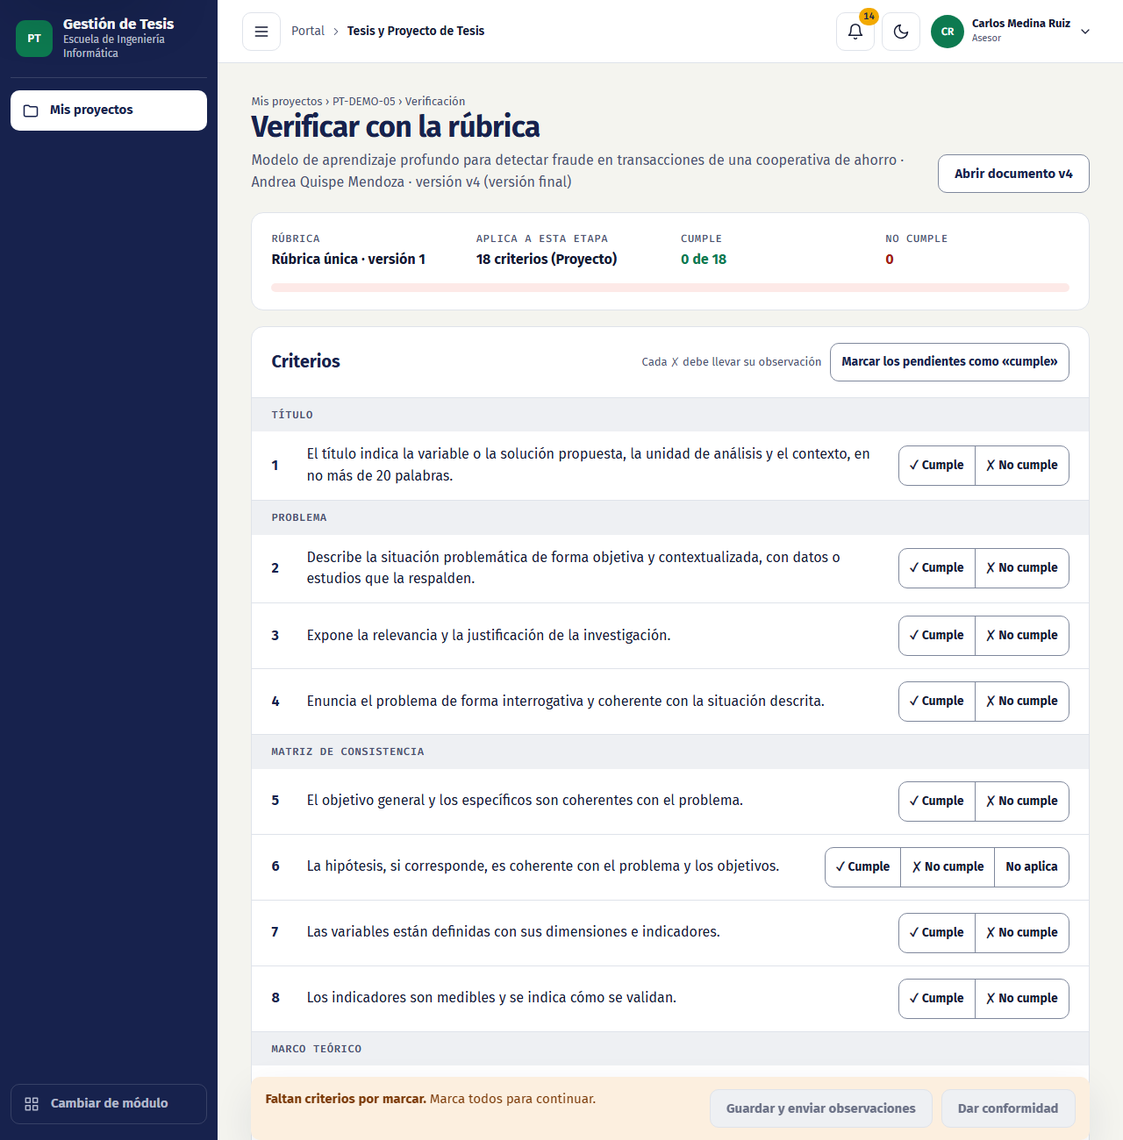
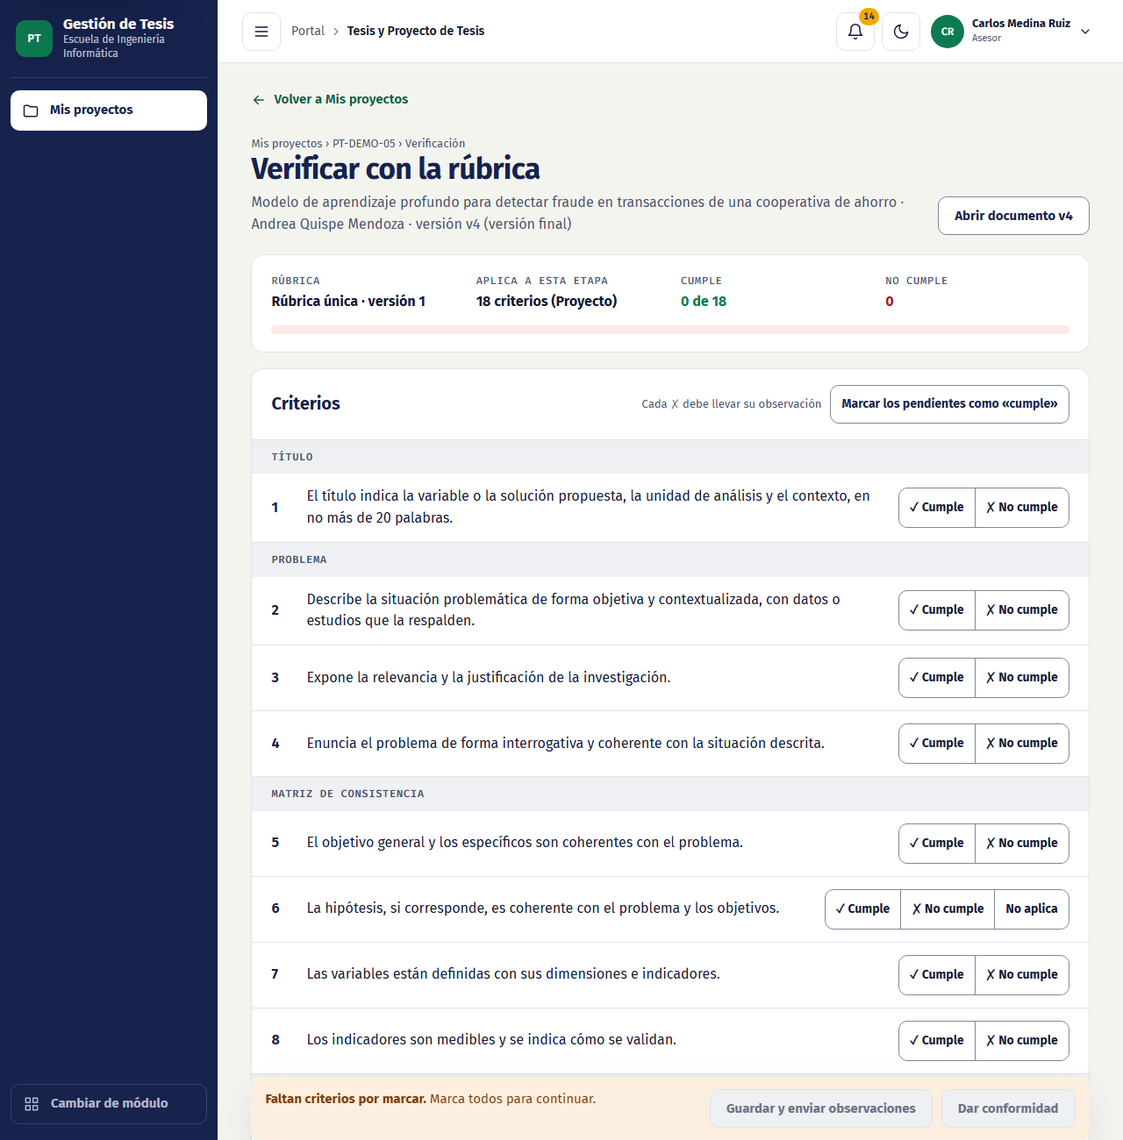
docs(tesis-proyecto-de-tesis): actualiza manuales con las correcciones de la prueba manual
- Manual de usuario: F1 segun el formato de la Escuela, respuesta con
  documento corregido, oficio al Decanato, ficha del Director, "Volver",
  mensajes nuevos y glosario.
- Manual de flujos: F-01, F-03 y F-04 actualizados y casos nuevos F-16 a
  F-20 (F1, oficio, Volver, mensajes y recorrido completo con clics reales).
- Manual de arquitectura: rutas nuevas, FormRequest, decisiones del 19/11.
- Capturas regeneradas.

diff --git a/app/Modules/TesisProyectoTesis/Docs/MANUAL_USUARIO.md b/app/Modules/TesisProyectoTesis/Docs/MANUAL_USUARIO.md
@@ -32,6 +32,9 @@ Esta guía explica cómo usar la sección **Gestión de Tesis** del portal de la
    - el botón de **tema** (luna o sol), que cambia entre tema claro y oscuro. La elección se guarda en tu navegador y vale para todos los módulos del portal;
    - tu **menú de usuario** (nombre y rol): **Mi perfil**, **Cambiar rol** (solo si tienes más de un rol en el módulo) y **Cerrar sesión**.
 
+5. En cada pantalla de detalle o formulario, el enlace **← Volver a …** de arriba te lleva a la lista de donde vienes (por ejemplo, «Volver a Mis proyectos»). Al guardar, el sistema te devuelve a esa lista con un mensaje verde que confirma lo que hiciste.
+6. Si falta un dato o hay un error, verás un recuadro rojo **«Revisa los datos del formulario»** con mensajes en español que dicen qué corregir.
+
 ![Barra superior con el menú de usuario abierto](img/barra-superior.png)
 
 > Los documentos se suben siempre en **PDF de hasta 10 MB**. Solo pueden abrirlos las personas que participan en ese proyecto.
@@ -96,18 +99,33 @@ En **Inicio** ves:
 
 ### Registrar tu proyecto (F1)
 
+El formulario sigue el formato F1 de la Escuela.
+
 1. En **Inicio**, pulsa **Registrar proyecto (F1)**.
-2. Completa los datos generales:
-   - el título, de 20 palabras como máximo (un contador te avisa);
-   - el resumen y la línea de investigación;
-   - los datos de la investigación.
+2. **Datos generales**:
+   - el título, de 20 palabras como máximo (un contador te avisa), y el resumen;
+   - **Enfoque**: Cuantitativo, Cualitativo o Mixto;
+   - **Tipo por el fin que persigue**: Básica o Aplicada;
+   - **Diseño de contrastación**: Experimental, Cuasi-experimental, Pre-experimental, No experimental – descriptivo, No experimental – correlacional u **Otro** (si eliges «Otro», describe el diseño);
+   - la **línea de investigación**;
+   - **Lugar de ejecución**: la ciudad o entidad donde aplicas la investigación (por ejemplo, Trujillo, La Libertad);
+   - **Institución**: viene con «Universidad Nacional de Trujillo»; cámbiala si corresponde;
+   - **Duración (meses)**: no se escribe, **se calcula sola** desde el cronograma (del primer inicio al último término);
+   - **Financiamiento**: Autofinanciado, Institucional o Externo. Debajo se explica cada opción.
 3. Si trabajas con un compañero, escribe su **código universitario** en «Coautor» y pulsa **Buscar**. Un proyecto puede tener como máximo 2 estudiantes.
    - Si está disponible, aparece un recuadro verde con su nombre y el texto «Se agregará como integrante 2 al registrar el proyecto». **No hay que pulsar otro botón**: quedará incluido cuando pulses **Registrar proyecto** al final.
    - Si te equivocaste de compañero, pulsa **Quitar** en ese recuadro y el campo queda vacío.
-4. Llena el cronograma y, si corresponde, los recursos, colaboradores y presupuesto. Usa los botones **+ Agregar** para sumar filas.
-5. Adjunta el documento F1 en PDF y pulsa **Registrar proyecto**.
+4. **Cronograma de actividades**: anota las actividades de tu investigación (por ejemplo, revisión bibliográfica, diseño, desarrollo, análisis de datos, evaluación y redacción del informe), **no** las etapas del trámite. Para cada una indica el inicio, el término y cuántas **horas por semana** le dedicarás. Con **+ Agregar actividad** sumas filas; la duración total aparece arriba de la tabla.
+5. **Recursos y presupuesto** (una sola tabla). Por cada recurso indica:
+   - el tipo (**Bienes** o **Servicios**) y la descripción;
+   - el **código del clasificador de gastos**: escribe para buscar por código o por concepto (por ejemplo, «2.3.1.5.1 · Materiales y útiles de oficina»). Si no está en la lista, elige **Otro código** y escríbelo. Para un bien propio sin costo (como tu laptop) usa **«–»** y valor 0;
+   - la unidad de medida, la cantidad y el **valor unitario en S/**.
 
-Tu proyecto recibe un código (por ejemplo, `PT-2026-005`) y queda en estado **Registrado**. Tu coautor lo verá en su cuenta.
+   El subtotal de cada fila, el total de bienes, el total de servicios y el total general se calculan solos. El **personal** (tú, tu coautor y el asesor) se muestra automáticamente, sin costo.
+6. Si corresponde, agrega **colaboradores**.
+7. Adjunta el documento F1 en PDF y pulsa **Registrar proyecto**.
+
+Tu proyecto recibe un código (por ejemplo, `PT-2026-005`) y queda en estado **Registrado**. Tu coautor lo verá en su cuenta. En **Mi proyecto** verás estos datos con el cronograma y los totales del presupuesto.
 
 ![Registro del proyecto](img/alumno-registrar.png)
 
@@ -128,8 +146,11 @@ Cada envío crea una nueva versión (v1, v2, v3…). En «Historial de versiones
 
 1. Abre **Observaciones**. Hay tres pestañas: **Pendientes**, **Respondidas** y **Levantadas**.
 2. En cada observación pendiente, escribe en «Tu respuesta» qué corregiste.
-3. En «Corregida en», elige la versión donde está la corrección. Debe ser una versión que subiste **después** de la observada.
-4. Pulsa **Enviar respuesta**. La observación pasa a «Respondidas».
+3. Indica dónde está la corrección (opcional, pero recomendable):
+   - **Documento corregido (PDF)**: adjunta el documento corregido. Se registra como una nueva entrega (avance, versión siguiente) y la observación queda «corregida en» esa versión. No hace falta subirlo antes en Avances.
+   - **Corregida en una versión ya subida**: si respondes varias observaciones con el mismo documento, adjúntalo en la primera y en las demás elige esa versión de la lista.
+   - Si no adjuntas nada ni eliges versión, verás una advertencia: puedes enviar igual, pero el revisor no sabrá dónde ver la corrección.
+4. Pulsa **Enviar respuesta**. La observación pasa a «Respondidas» y tu revisor recibe un aviso.
 5. El asesor o el jurado revisa tu respuesta y la da por levantada. Mientras no lo haga, puedes cambiar tu respuesta con **Actualizar respuesta**.
 
 ![Observaciones del estudiante](img/alumno-observaciones.png)
@@ -173,7 +194,9 @@ En **Mis proyectos** ves los proyectos que asesoras y cifras de lo pendiente. Ca
 
 ### Dar por levantada una observación
 
-En el detalle del proyecto, sección «Observaciones del proyecto», pulsa **Dar por levantada** en las observaciones que el estudiante ya respondió. Solo puedes levantar las observaciones que tú registraste.
+En el detalle del proyecto, sección «Observaciones del proyecto», junto a la respuesta del estudiante aparece **Ver documento corregido (vN)**: ábrelo para revisar la corrección. Luego pulsa **Dar por levantada**. Si el estudiante no indicó la versión, verás «sin versión corregida indicada». Solo puedes levantar las observaciones que tú registraste.
+
+Al final del detalle del proyecto están los datos del F1: datos de la investigación, cronograma y recursos con sus totales.
 
 ### Verificar con la rúbrica
 
@@ -185,8 +208,8 @@ En el detalle del proyecto, sección «Observaciones del proyecto», pulsa **Dar
 
    **Marcar los pendientes como «cumple»** completa de una vez los criterios que aún no marcaste.
 3. La barra inferior te dice si puedes continuar:
-   - Con todos en «cumple», pulsa **Dar conformidad**.
-   - Si hay alguno en «no cumple», pulsa **Guardar y enviar observaciones**. El estudiante corrige y sube una nueva versión final.
+   - Con todos en «cumple», pulsa **Dar conformidad**. Pasas a Turnitin. Si aún tienes observaciones abiertas, el mensaje te dice cuántas debes dar por levantadas antes de registrar Turnitin.
+   - Si hay alguno en «no cumple», pulsa **Guardar y enviar observaciones**. Vuelves a **Mis proyectos**; el estudiante corrige, sube una nueva versión final y responde la observación.
 
 ![Rúbrica del asesor](img/asesor-rubrica.png)
 
@@ -224,10 +247,15 @@ Muestra:
 
 ### Solicitar el asesor al Decanato
 
+El Decanato no usa el sistema: **el sistema registra la solicitud; el envío al Decanato se hace por el canal oficial**.
+
 1. En «Requieren tu acción», pulsa **Solicitar** junto al proyecto nuevo.
 2. Revisa los datos de la solicitud (dirigida a, área, asunto, descripción).
 3. Si quieres, sugiere un docente especialista en la línea del proyecto. La sugerencia es solo referencial: decide el Decanato.
-4. Pulsa **Enviar solicitud al Decanato**. La Secretaría registrará la resolución cuando llegue.
+4. Pulsa **Registrar solicitud y generar oficio**. Se abre el **oficio** dirigido al Decano (número, asunto, proyecto, estudiantes, línea y docente sugerido).
+5. Pulsa **Imprimir oficio**, fírmalo y envíalo al Decanato por el canal oficial. La **Constancia en PDF** queda guardada en la solicitud; puedes volver a abrir el oficio desde la pantalla de la solicitud («Ver e imprimir el oficio»).
+
+La Secretaría registrará la resolución cuando llegue.
 
 ### Asignar el jurado
 
@@ -251,7 +279,7 @@ No se puede reemplazar cuando la sustentación ya está programada o concluida.
 
 ### Todos los proyectos
 
-Lista todos los proyectos con búsqueda y filtro por estado. Según el estado, cada fila ofrece **Solicitar asesor**, **Asignar jurado** o **Ver jurado**.
+Lista todos los proyectos con búsqueda y filtro por estado. Según el estado, cada fila ofrece **Solicitar asesor**, **Asignar jurado** o **Ver jurado**. Al pulsar el **título** se abre la **ficha del proyecto**: integrantes, asesor, jurado, datos del F1, cronograma, recursos con sus totales e historial.
 
 ---
 
@@ -261,7 +289,7 @@ Menú: **Resoluciones**, **Sustentaciones**, **Actas y dictámenes**.
 
 ### Registrar la resolución del asesor
 
-1. Abre **Resoluciones**. En «Solicitudes esperando resolución» elige el proyecto.
+1. Abre **Resoluciones**. En «Solicitudes esperando resolución» elige el proyecto. Con **Oficio del Director al Decanato · ver PDF** puedes revisar la solicitud que se envió.
 2. Completa:
    - el N.° de resolución;
    - la fecha de emisión, que no puede ser futura;
@@ -359,7 +387,12 @@ Los votos de cada uno se muestran recién cuando están los tres.
 | «No puedes agregarte a ti mismo como coautor.» | Deja el campo vacío si trabajas solo. |
 | Junto al nombre de tu coautor aparece un aviso en rojo | Ya tiene otro proyecto activo. Un estudiante solo puede tener uno. |
 | «En el estado actual del proyecto (…) no se reciben entregas.» | Espera a que tu asesor sea designado o a que termine la etapa en curso. |
-| «Elige una entrega de tu proyecto posterior a la observada.» | Sube primero la versión corregida y luego responde la observación. |
+| «Elige una entrega de tu proyecto posterior a la observada.» | Adjunta el documento corregido en la respuesta o elige una versión posterior a la observada. |
+| «No adjuntaste el documento corregido ni elegiste una versión…» (aviso amarillo) | Tu respuesta se envió. Si ya corregiste el documento, vuelve a responder adjuntándolo o eligiendo la versión. |
+| «Describe el diseño de contrastación cuando eliges «Otro».» | Escribe el diseño en el campo que aparece debajo. |
+| «El cronograma dura N meses; el máximo es 36…» | Revisa las fechas de inicio y término de las actividades. |
+| «Indica la dedicación de cada actividad, en horas por semana.» | Completa las horas por semana de cada actividad del cronograma. |
+| «El código del clasificador debe tener números separados por puntos…» | Elige un código de la lista, escribe uno como 2.3.1.5.1 o usa «–» para un bien propio. |
 | «Esta observación ya fue levantada por el revisor.» | No necesitas hacer nada más con ella. |
 
 ### Asesor y jurado
@@ -372,6 +405,8 @@ Los votos de cada uno se muestran recién cuando están los tres.
 | «Aún no hay una versión final o culminada para verificar.» | El estudiante debe subir su versión final. |
 | «Primero verifica la versión vigente con la rúbrica y da tu conformidad.» | Completa la rúbrica antes de registrar Turnitin. |
 | «Aún hay observaciones tuyas sin levantar.» | Levanta las observaciones que el estudiante ya respondió. |
+| «Rúbrica conforme. Antes de registrar Turnitin, da por levantadas tus N observaciones abiertas…» | En la ficha del proyecto, abre el documento corregido y pulsa **Dar por levantada**. |
+| «No se recibió qué acción elegiste…» | Vuelve a pulsar el botón de la rúbrica (por ejemplo, **Dar conformidad**). |
 | «Si registras observaciones, el resultado debe ser «Con observaciones».» | Cambia el resultado o quita las observaciones nuevas. |
 | «Solo se levantan observaciones que el estudiante ya respondió.» | Espera la respuesta del estudiante. |
 | «El resultado se registra el día de la sustentación.» | Vuelve el día programado. |
@@ -392,7 +427,7 @@ Los votos de cada uno se muestran recién cuando están los tres.
 | Mensaje | Qué hacer |
 |---|---|
 | «Ya existe una resolución con ese número.» | Revisa el número de la resolución. |
-| «La fecha no puede ser anterior a hoy.» | Elige hoy o una fecha posterior. |
+| «La fecha de la sustentación no puede ser anterior a hoy.» | Elige hoy o una fecha posterior. |
 | «El ambiente ya tiene una sustentación en ese horario.» | Cambia el aula o la hora. Revisa la agenda de la semana. |
 | Un mensaje dice que un jurado o el asesor tiene otra sustentación a esa hora | Elige otra hora. |
 | «Primero sube el documento firmado.» | Sube el escaneo firmado antes de informar al Director. |
@@ -403,7 +438,9 @@ Los votos de cada uno se muestran recién cuando están los tres.
 
 | Término | Significado |
 |---|---|
-| **F1** | Formato del proyecto de tesis que el estudiante registra en el 9.º ciclo (etapa 1). |
+| **F1** | Formato del proyecto de tesis que el estudiante registra en el 9.º ciclo (etapa 1): datos generales, cronograma de actividades y recursos y presupuesto. |
+| **Clasificador de gastos** | Código presupuestal de cada recurso (por ejemplo, 2.3.1.5.1 · Materiales y útiles de oficina). «–» indica un bien propio sin costo. |
+| **Oficio** | Documento que el Director imprime, firma y envía al Decanato para solicitar el asesor; el sistema guarda su constancia en PDF. |
 | **F2** | Documento de la tesis que se desarrolla en el 10.º ciclo (etapa 2). |
 | **Avance** | Entrega parcial del documento que el asesor revisa, normalmente cada semana. |
 | **Observación** | Indicación de algo que se debe corregir. Pasa por tres momentos: pendiente, respondida y levantada. |

diff --git a/app/Modules/TesisProyectoTesis/Docs/MANUAL_ARQUITECTURA.md b/app/Modules/TesisProyectoTesis/Docs/MANUAL_ARQUITECTURA.md
@@ -59,14 +59,14 @@ app/Modules/TesisProyectoTesis/
 ├── Database/
 │   ├── Migrations/     3 migraciones originales de gestión + 19 de ajuste (2026_11_10_0000NN)
 │   └── Seeders/        TesisDatabaseSeeder, RubricaSeeder, TipoSolicitudSeeder,
-│                       DemoTesisSeeder, EscenariosTesisSeeder
+│                       DemoTesisSeeder, EscenariosTesisSeeder, LineasInvestigacionSeeder
 ├── Docs/               estos manuales e img/ con capturas
 ├── Models/             23 modelos (ModuleModel, incluido Registro) + Concerns/UsaUuid
 ├── Policies/           ProyectoPolicy
-├── Requests/           13 FormRequest (uno por escritura)
+├── Requests/           18 FormRequest sobre TesisFormRequest (mensajes en español): 13 de escritura y 5 de filtros/consultas
 ├── Routes/             web.php, api.php
 ├── Services/           21 servicios con las reglas de negocio
-└── Support/            Estados, Parametros, Identidad (DTO), PdfSimple
+└── Support/            Estados, Parametros, Identidad (DTO), PdfSimple, DuracionCronograma
 
 resources/views/modules/tesis-proyecto-tesis/
 ├── layout.blade.php    documento propio del módulo (como layouts.calidad): menú lateral por rol, barra superior con campana, tema y menú de usuario
@@ -143,8 +143,10 @@ Prefijo `/tesis-proyecto-tesis`, nombre `tesis-proyecto-tesis.`. Todo, salvo la 
 | Método | URI | Nombre | Autorización |
 |---|---|---|---|
 | GET | `/director` | `director.panel` | Rol |
-| GET | `/director/proyectos` | `director.proyectos` | Rol (filtros validados) |
+| GET | `/director/proyectos` | `director.proyectos` | Rol (`FiltrarProyectosDirectorRequest`) |
+| GET | `/director/proyectos/{proyecto}` | `director.proyecto` | `can:gestionarComoDirector` (ficha con el detalle del F1) |
 | GET / POST | `/director/proyectos/{proyecto}/solicitar-asesor` | `director.asesor.solicitar` / `director.asesor.enviar` | `can:gestionarComoDirector` / `SolicitarAsesorRequest` |
+| GET | `/director/solicitudes/{solicitud}/oficio` | `director.oficio` | `Gate::authorize('gestionarComoDirector')` en el controlador (oficio imprimible) |
 | GET / POST | `/director/proyectos/{proyecto}/jurado` | `director.jurado` / `director.jurado.asignar` | `can:gestionarComoDirector` / `AsignarJuradoRequest` |
 | POST | `/director/proyectos/{proyecto}/jurado/reemplazar` | `director.jurado.reemplazar` | `ReemplazarJuradoRequest` |
 
@@ -258,7 +260,7 @@ La seguridad pidió además **identificadores públicos no numéricos**. Ninguna
 | 03 | `colaborador` | `id_persona` nullable + `nombres_completos` | Colaboradores en texto libre sin crear personas en `core` |
 | 04 | `actividad_cronograma` | `horas_semanales` (1–60) | Cronograma del F1 |
 | 05 | `recurso` | `cantidad`, tipos válidos, índice | Recursos del F1 |
-| 06 | `partida_presupuesto` | `id_recurso` nullable, `id_proyecto`, clasificador, descripción | Presupuesto por partidas del F1 |
+| 06 | `partida_presupuesto` | `id_recurso` nullable, `id_proyecto`, clasificador, descripción | Presupuesto del F1: cada fila de «Recursos y presupuesto» es un `recurso` + su partida (`id_recurso`) |
 | 07 | `solicitud` | uuid, destinatario, asunto, detalle, docente sugerido, `atendida_en`; `id_archivo` nullable | La solicitud de asesor la genera el sistema |
 | 08 | `resolucion` | uuid, órgano emisor, dirigido a, quién registró; UNIQUE por solicitud | Una resolución por solicitud y trazabilidad |
 | 09 | `asesor_proyecto` | fechas, motivo, estado; un asesor activo por proyecto (índice parcial) | Historial de designación |
@@ -308,7 +310,7 @@ Resumen de la revisión hecha con los requisitos de seguridad del módulo:
 | Identidad solo por contrato | `IdentidadService`; sin vínculo → mensaje claro | `BaseModuloTest` |
 | Solo uuid en URLs y formularios | `whereUuid`, códigos de catálogo, token de avisos | `SeguridadRutasTest`, `BaseModuloTest` |
 | Exposición mínima | Columnas explícitas. La API solo devuelve `{module, schema}`. Sin DNI ni teléfono en pantallas. La búsqueda de coautor solo devuelve nombre, código y disponibilidad | `BaseModuloTest`, `RegistroProyectoTest` |
-| FormRequest en cada escritura | 13 FormRequest con `authorize()`; las reglas de negocio se repiten en el Service | Pruebas de validación |
+| FormRequest en cada escritura | 13 FormRequest de escritura (y 5 de filtros) con `authorize()`, `messages()` y `attributes()` en español; las reglas de negocio se repiten en el Service | `MensajesValidacionTest`, `RubricaFormularioTest` |
 | `$fillable` explícito | Todos los modelos | `SeguridadRutasTest` |
 | Doble envío y concurrencia | `DB::transaction` + `lockForUpdate` y `pg_advisory_xact_lock` (registro, numeraciones, agenda). El estado se verifica dentro de la transacción | Pruebas de doble envío |
 | SQL seguro | Solo estático o con bindings | Revisión manual |
@@ -320,7 +322,7 @@ Resumen de la revisión hecha con los requisitos de seguridad del módulo:
 ## Archivos
 
 - `ArchivoService::guardar()` guarda el PDF en el disco `local` (`storage/app/private/tesis/`), fuera de `public`, con nombre `uuid.pdf`. Registra el nombre original saneado, el tamaño y el usuario en `comun.archivo`.
-- `guardarContenido()` hace lo mismo con un contenido generado (PDF de ejemplo con `Support/PdfSimple`).
+- `guardarContenido()` hace lo mismo con un contenido generado con `Support/PdfSimple`: los PDF de ejemplo de los escenarios y la constancia del oficio al Decanato (`tesis/oficios/`, enlazada en `tesis.solicitud.id_archivo`).
 - `eliminar()` borra el archivo y su registro.
 - La descarga entra por una sola ruta: `GET /archivos/{tipo}/{uuid}`. `ExpedienteService::ubicarArchivo()` busca el registro dueño (proyecto, entrega, resolución, reporte o acta firmada) y su proyecto, y el controlador exige la Policy `ver`.
 - El dictamen y el acta se imprimen desde la vista (HTML + `window.print()`). La Secretaría sube luego el escaneo firmado.
@@ -397,6 +399,7 @@ Con Turnitin > 21 % el proyecto **no cambia de estado**: la entrega queda Observ
 | `RubricaSeeder` | Todos | Rúbrica única v1 con 26 criterios (18 aplican a Proyecto y 25 a Tesis). Idempotente |
 | `TipoSolicitudSeeder` | Todos | Designación de asesor, Designación de jurado, Programación de sustentación |
 | `DemoTesisSeeder` | Solo `local`/`testing` | Facultad, escuela, periodo, líneas, ambientes y cuentas `*@portal.local` (inserta en `core`, `seguridad` y `public`) |
+| `LineasInvestigacionSeeder` | Solo `local`/`testing` | Preparado para la lista oficial de líneas (`LINEAS`, vacía por ahora). En producción las carga gestión en `core` |
 | `EscenariosTesisSeeder` | Solo `local`/`testing` | 11 proyectos `PT-DEMO-01…11` en cada punto del flujo, con PDF reales y avisos. Idempotente: además borra los proyectos de ensayo de las cuentas `nuevo@` y `est01…11@` y conserva los de otras cuentas (ver [Manual de flujos](MANUAL_FLUJOS.md#escenarios-pt-demo)) |
 
 ```bash
@@ -415,7 +418,7 @@ Siembra **dentro** del contenedor `app` y como `www-data`, para que los PDF qued
 
 | Suite | Cantidad |
 |---|---|
-| `tests/Feature/TesisProyectoTesis/` | 10 archivos, 72 pruebas |
+| `tests/Feature/TesisProyectoTesis/` | 17 archivos de prueba (más el ayudante `EnviaFormularios`), 102 pruebas |
 | `tests/Unit/TesisProyectoTesis/` | 1 archivo, 2 pruebas |
 | `tests/Unit/ModuleStructureTest.php`, `ModuleSchemaIsolationTest.php` | Aislamiento entre módulos (globales) |
 
@@ -497,6 +500,15 @@ Resumen de las decisiones tomadas durante la implementación. Ante una duda se e
 - Controles de al menos 44 px y foco visible.
 - Los estados llevan siempre texto además del color.
 - Enlace «Saltar al contenido», etiquetas `label`/`legend` y roles ARIA en pestañas, barras de progreso y búsqueda.
+
+**Correcciones de la prueba manual (19/11)**
+
+- Los botones de envío de la rúbrica no llevan `name`: la acción viaja en un campo oculto que llena el clic. Al enviar, Alpine deshabilita los botones (anti doble envío) y un botón deshabilitado no envía su valor; eso producía «validation.required». En todos los formularios `enviando` se activa con `setTimeout`, después de armar los datos.
+- Mensajes de validación en español desde `TesisFormRequest::mensajesBase()`, sin tocar `lang/`.
+- «← Volver a …» en las pantallas de detalle; al guardar se vuelve a la lista de origen, salvo dos continuaciones (rúbrica conforme → Turnitin; acta firmada → informar).
+- La respuesta a una observación puede adjuntar el PDF corregido: se registra con `AvanceService::subir` como avance de la semana actual y la observación queda «corregida en» esa versión.
+- F1 según el formato de la Escuela: duración calculada (`DuracionCronograma`, el servidor no acepta la del formulario), catálogo del clasificador de gastos en `Parametros::CLASIFICADOR_GASTOS`, una fila = `recurso` + `partida_presupuesto`, sin migraciones.
+- El Decanato no usa el sistema: la solicitud genera un oficio imprimible y su constancia en PDF; el número `NNN-AAAA-EPII-D` es el correlativo del año y se recalcula.
 
 **Contenedor y tema**
 

diff --git a/app/Modules/TesisProyectoTesis/Docs/README.md b/app/Modules/TesisProyectoTesis/Docs/README.md
@@ -5,7 +5,7 @@ Módulo del portal de la Escuela de Ingeniería Informática que gestiona el pro
 | Manual | Para quién | Contenido |
 |---|---|---|
 | [Manual de usuario](MANUAL_USUARIO.md) | Estudiantes, asesores, Director, Secretaría y jurados | Qué puede hacer cada rol, paso a paso y con capturas; qué significa cada estado; mensajes frecuentes; glosario |
-| [Manual de flujos](MANUAL_FLUJOS.md) | Quien prueba o revisa el módulo | 15 casos de prueba sobre los escenarios `PT-DEMO-01…11`, con cuentas, pasos, resultado esperado y la prueba automática que cubre cada caso |
+| [Manual de flujos](MANUAL_FLUJOS.md) | Quien prueba o revisa el módulo | 20 casos de prueba sobre los escenarios `PT-DEMO-01…11` (incluidas las correcciones de la prueba manual y el recorrido completo con clics reales), con cuentas, pasos, resultado esperado y la prueba automática que cubre cada caso |
 | [Manual de arquitectura](MANUAL_ARQUITECTURA.md) | Desarrolladores y grupo de gestión | Capas, rutas y Policy, servicios, modelos, migraciones, contrato con `core`/`seguridad`, seguridad, diagrama de estados, seeders, pruebas, decisiones y limitaciones |
 
 ## Inicio rápido
